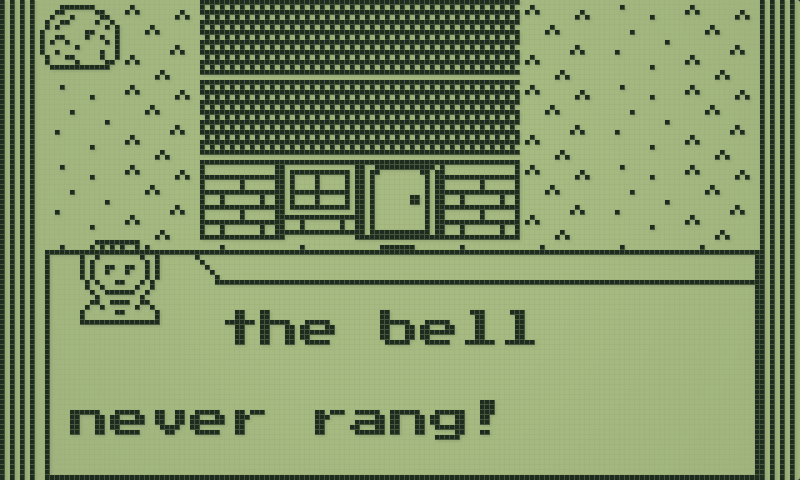
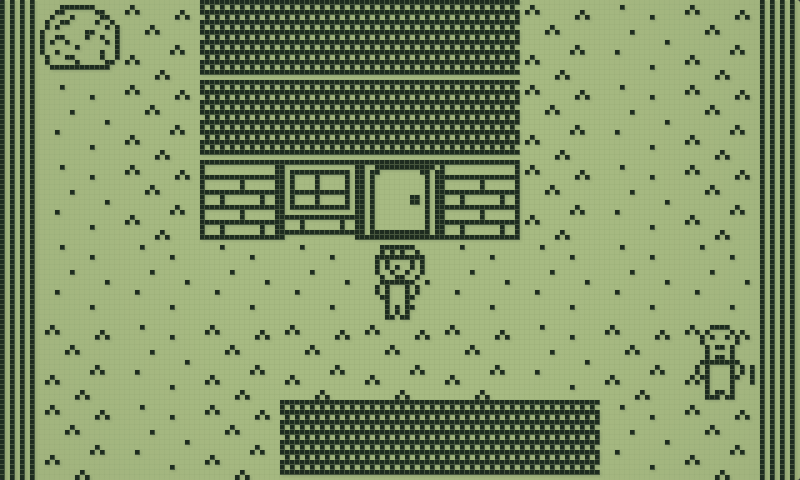
Front page showcase: zoom out from the LCD view to the wide map
"Every pixel, a real LCD cell." → "See more of the world." is now the
camera pulling back: the two pictures are the same moment of The Silent
Bell with the same LCD look, the 9 x 6 view exactly the centre of the
17 x 10 one. The wide picture comes in at 1.8x, matching the first, and
widens out while the first shrinks into its place; scrolling back zooms
in again. Pictures are clipped to the screen, and a new picture fades in
on top before the old one goes, so the screen no longer dims between
two.

diff --git a/src/styles.css b/src/styles.css
@@ -3845,21 +3845,65 @@ html:lang(zh-CN) .h-show-lines h3 {
   border: 1px solid var(--h-ink);
   box-shadow: 0 30px 90px rgb(0 0 0 / 0.18);
 }
-.h-show-frame img {
+/* the screen inside the frame: it clips the pictures (and their zoom) */
+.h-show-win {
   position: absolute;
   inset: clamp(12px, 1.4vw, 20px);
-  width: calc(100% - 2 * clamp(12px, 1.4vw, 20px));
-  height: calc(100% - 2 * clamp(12px, 1.4vw, 20px));
+  overflow: hidden;
+}
+.h-show-frame img {
+  position: absolute;
+  inset: 0;
+  width: 100%;
+  height: 100%;
   object-fit: cover;
   image-rendering: pixelated;
   opacity: 0;
   transform: scale(1.02);
-  transition: opacity 0.5s ease, transform 0.8s ease;
+  /* (the one leaving fades only once the new one, on top, has come in, so
+     the screen never dims between them) */
+  transition:
+    opacity 0.3s ease 0.35s,
+    transform 0.8s ease;
 }
 .h-show-frame img.on {
+  z-index: 1;
   opacity: 1;
   transform: none;
+  transition:
+    opacity 0.35s ease,
+    transform 0.8s ease;
 }
+/* LCD → See more of the world: the same scene, the camera pulling back.
+   The wide picture (17 x 10 tiles) shows the 9 x 6 one at its centre at
+   1.8x, so it comes in zoomed to that and widens out; the LCD picture
+   shrinks into its place in the bigger map. Scrolling back reverses it. */
+.h-show-frame img.wide {
+  object-fit: contain;
+  transform-origin: 50% 50%;
+}
+.h-show-frame[data-shown="lcd"] img.wide {
+  transform: scale(1.8);
+}
+.h-show-frame[data-shown="wide"] img.lcd {
+  transform: scale(0.5556);
+}
+.h-show-frame[data-shown="wide"] img.wide,
+.h-show-frame[data-shown="lcd"] img.lcd {
+  transition:
+    opacity 0.35s ease,
+    transform 1.6s cubic-bezier(0.22, 0.7, 0.18, 1);
+}
+.h-show-frame[data-shown="wide"] img.lcd,
+.h-show-frame[data-shown="lcd"] img.wide {
+  transition:
+    opacity 0.3s ease 0.35s,
+    transform 1.6s cubic-bezier(0.22, 0.7, 0.18, 1);
+}
+.h-show-frame[data-shown="wide"] img.wide {
+  transform: none;
+}
+
 .h-show-count {
   position: absolute;
   right: 0;

diff --git a/src/app/pages.tsx b/src/app/pages.tsx
@@ -265,10 +265,20 @@ export function HomePage({ onPlayDemo, onOpenGames, busy }: { onPlayDemo: PlayDe
             ))}
           </div>
           <div className="h-show-media" aria-hidden="true">
-            <div className="h-show-frame">
-              {t.better.map((b, i) => (
-                <img key={b.img} src={b.img} alt="" className={i === shown ? "on" : undefined} width={800} height={480} />
-              ))}
+            {/* (data-shown lets the LCD and wide-map pictures zoom into each other) */}
+            <div className="h-show-frame" data-shown={t.better[shown]?.img.replace(/^.*\/|\.webp$/g, "")}>
+              <div className="h-show-win">
+                {t.better.map((b, i) => (
+                  <img
+                    key={b.img}
+                    src={b.img}
+                    alt=""
+                    className={`${b.img.replace(/^.*\/|\.webp$/g, "")}${i === shown ? " on" : ""}`}
+                    width={800}
+                    height={480}
+                  />
+                ))}
+              </div>
               <span className="h-show-count">
                 {String(shown + 1).padStart(2, "0")} / {String(t.better.length).padStart(2, "0")}
               </span>
